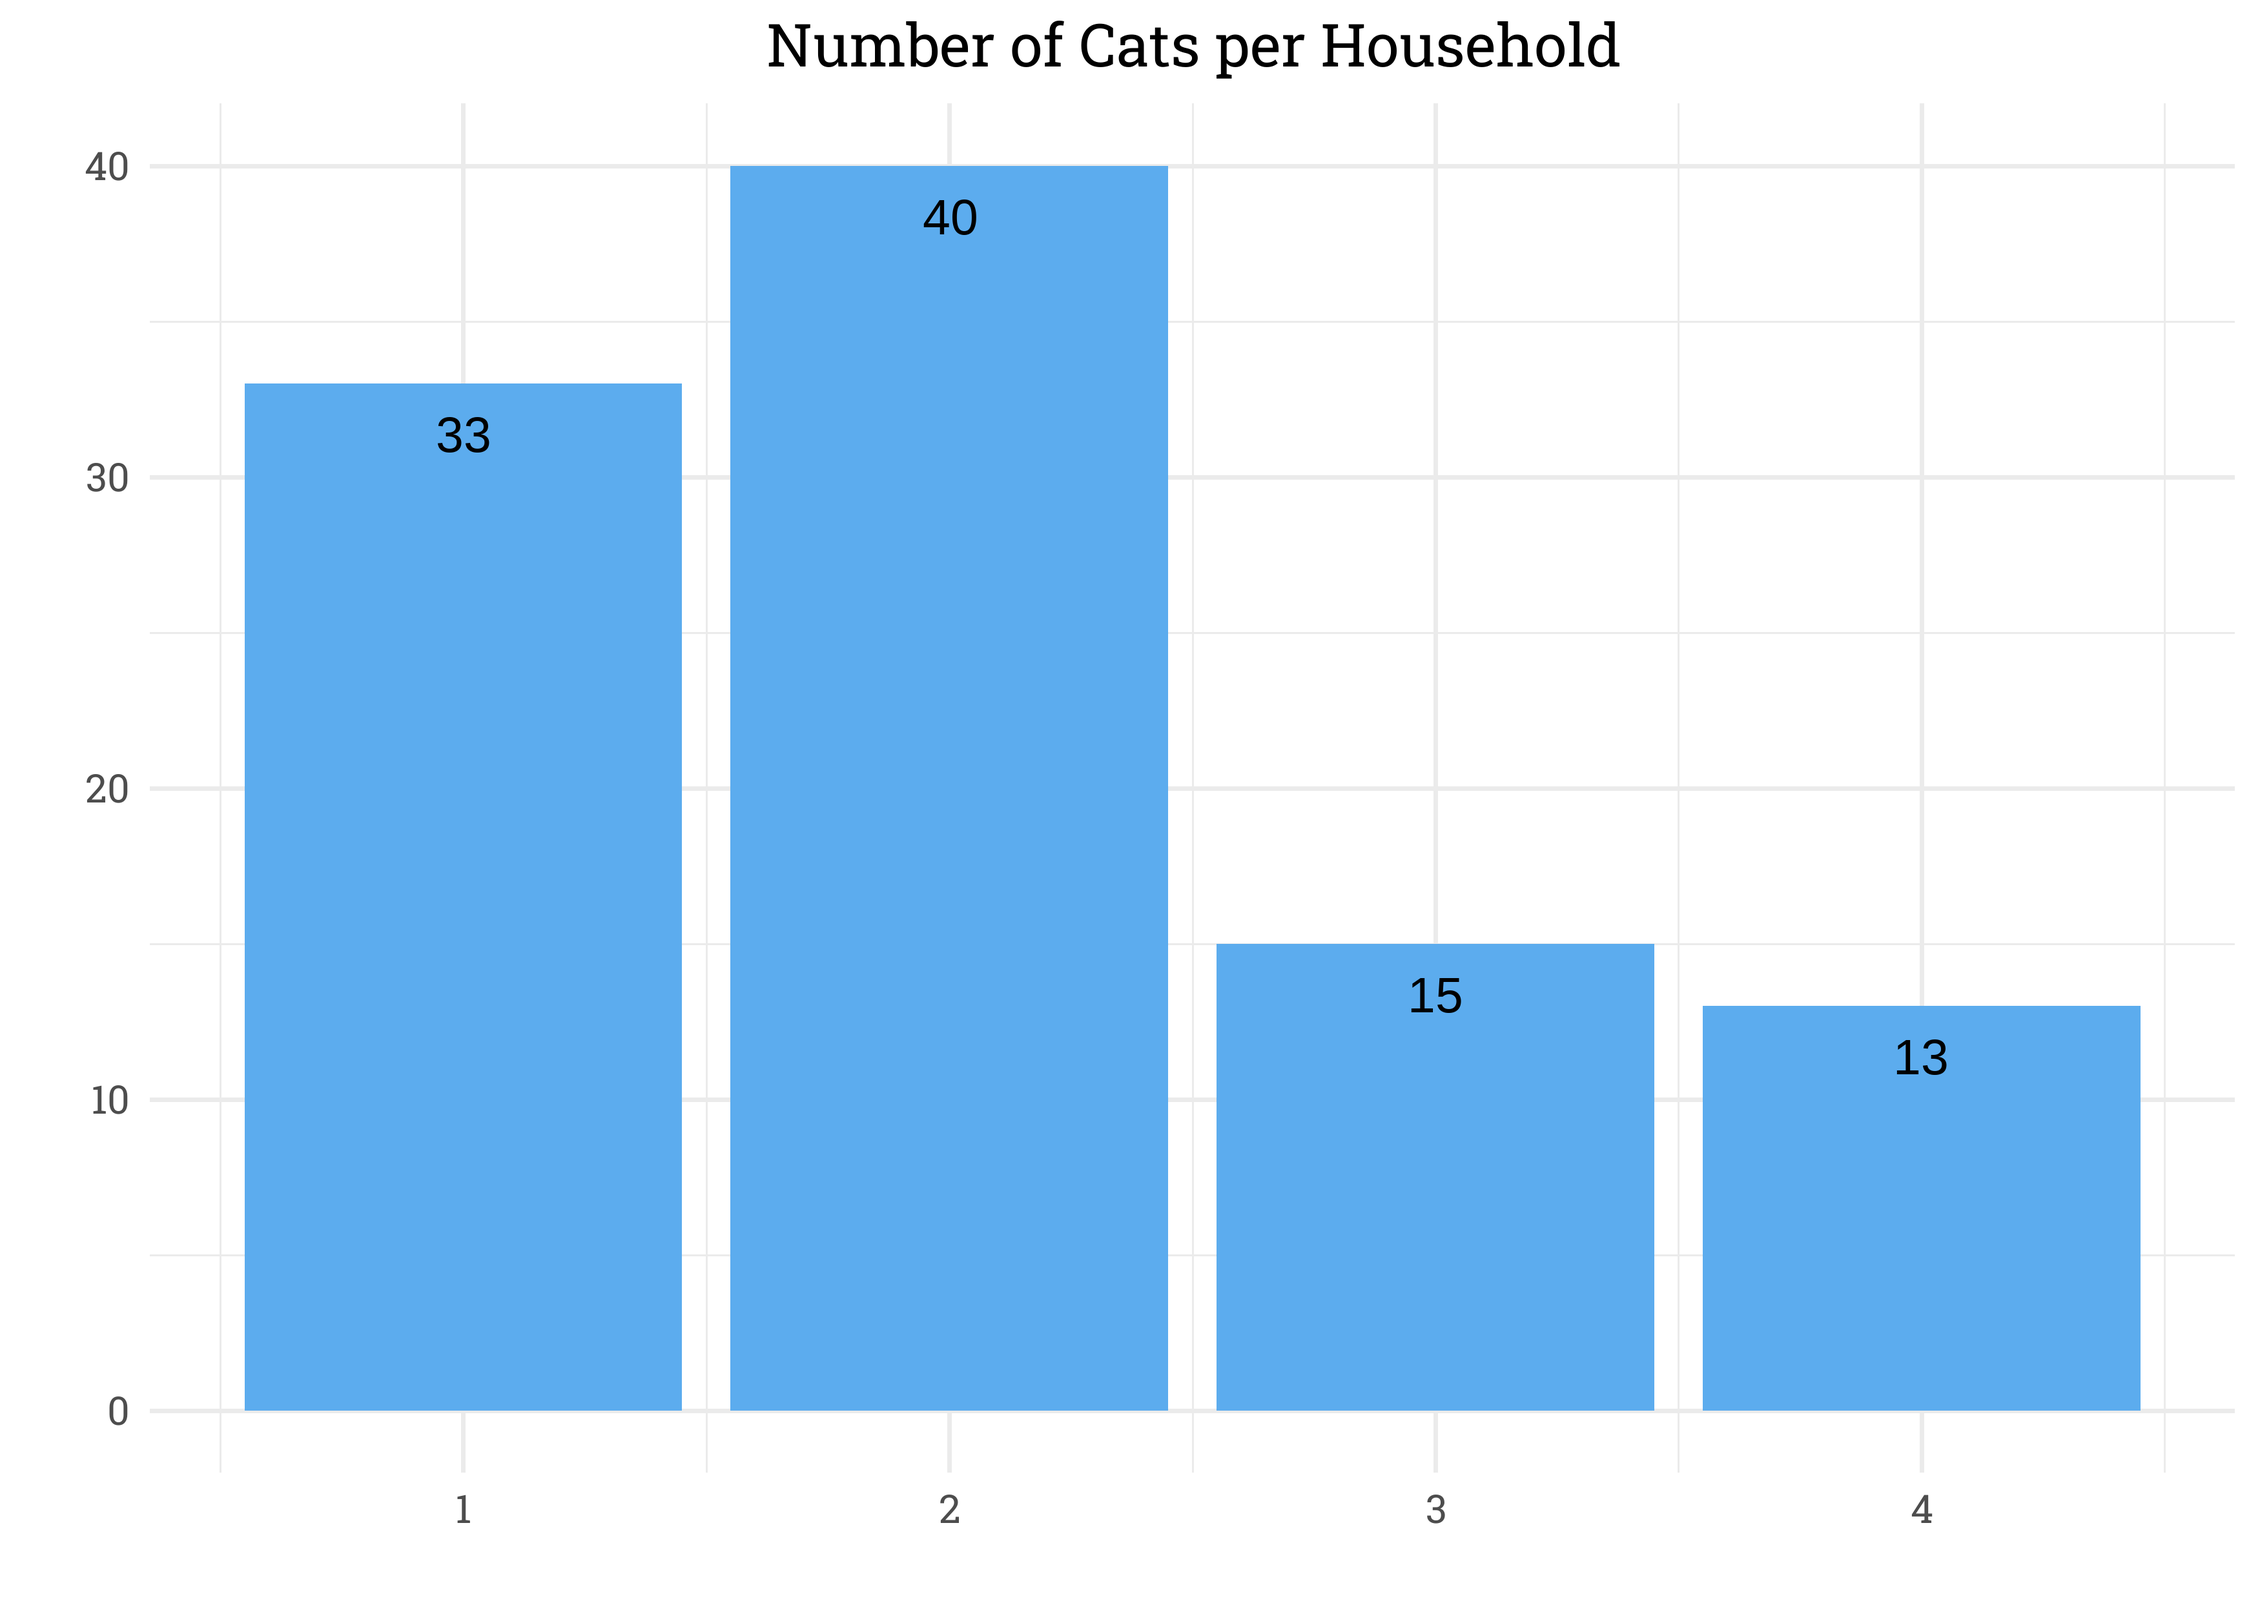
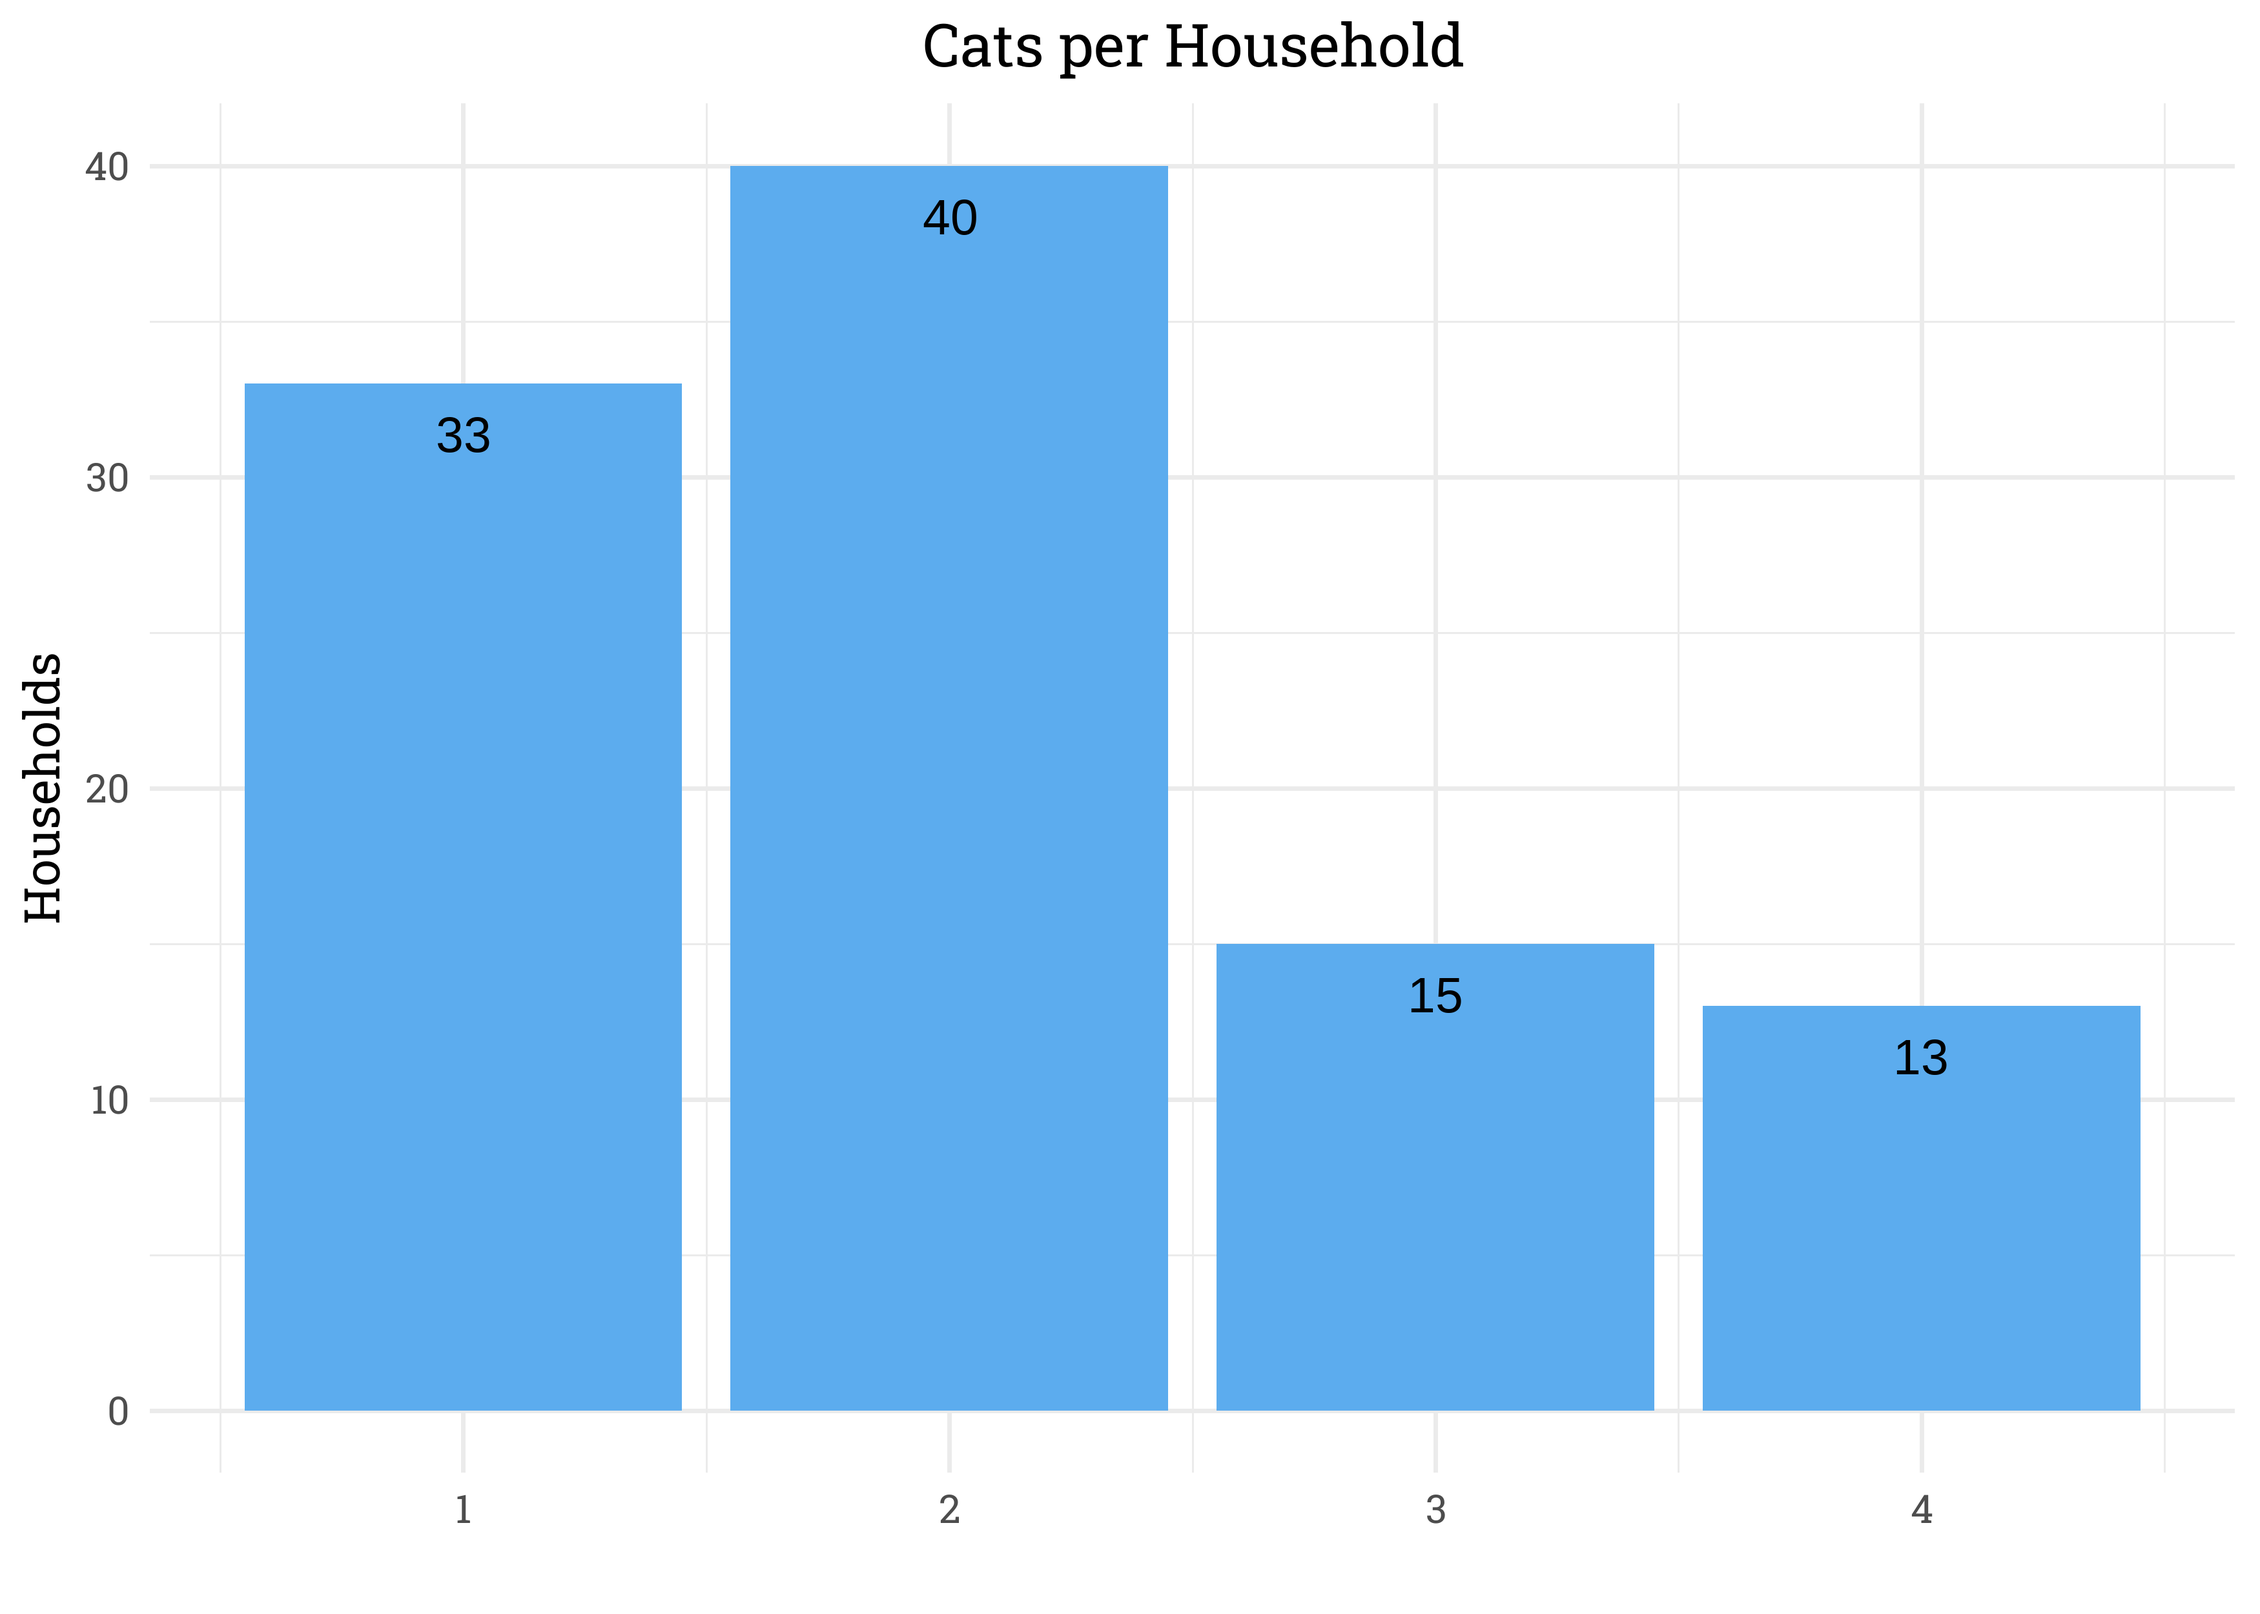
renaming titles

Changed region(s): [[0.3426, 0.0, 0.7163, 0.0624], [0.0, 0.4056, 0.0311, 0.5616]]

diff --git a/2023/01-31-23/UK-Cats.md b/2023/01-31-23/UK-Cats.md
@@ -23,7 +23,7 @@ cats %>%
   ggplot(aes(n_cats)) +
   geom_bar(fill = "steelblue2") +
   geom_text(aes(label = ..count..), stat = "count", vjust = 2) +
-  labs(y = "", x = "", title = "Number of Cats per Household")
+  labs(y = "Households", x = "", title = "Cats per Household")
 ```
 
 ![](UK-Cats_files/figure-gfm/unnamed-chunk-2-1.png)<!-- -->
@@ -37,8 +37,8 @@ cats %>%
   ggplot(aes(fct_reorder(factor(prey_year),prey_year), n)) +
   geom_col(fill = "steelblue2") + 
   geom_text(aes(label = n), vjust = 2) +
-  labs(y = "Number of Cats", x = "Prey per Year", 
-       title = "Number of Cats by the Number of Prey Caught per Year")
+  labs(y = "Cats", x = "Prey per Year", 
+       title = "Prey Caught per Year")
 ```
 
 ![](UK-Cats_files/figure-gfm/unnamed-chunk-3-1.png)<!-- -->
@@ -52,8 +52,8 @@ cats %>%
   geom_col(fill = "steelblue2") +
   geom_text(aes(label = n), vjust = 2) +
   scale_x_continuous(breaks = seq(2.5,22.5,5)) +
-  labs(y = "Count", x = "Hours Indoors", 
-       title = "Number of Cats by the Hours Spent Indoors")
+  labs(y = "Cats", x = "Hours Indoors", 
+       title = "Hours Spent Indoors")
 ```
 
 ![](UK-Cats_files/figure-gfm/unnamed-chunk-4-1.png)<!-- -->
